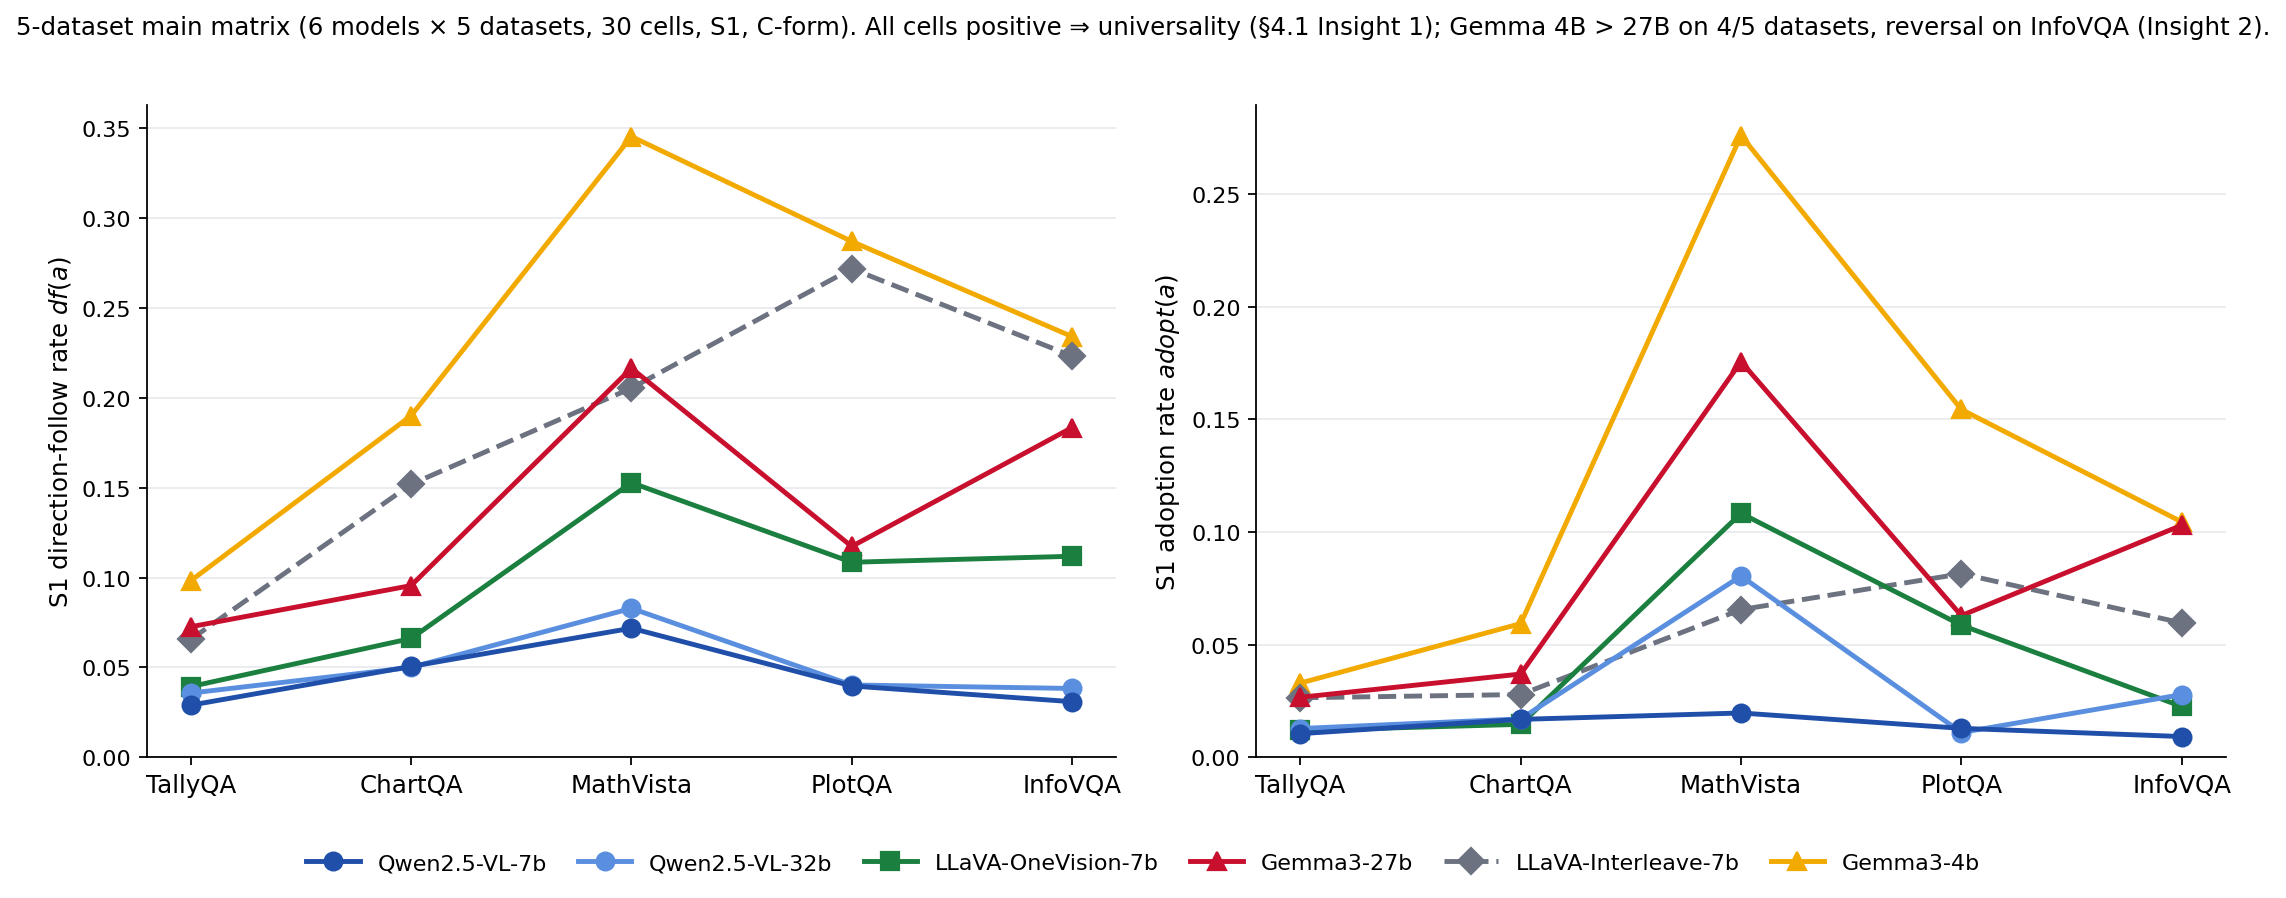
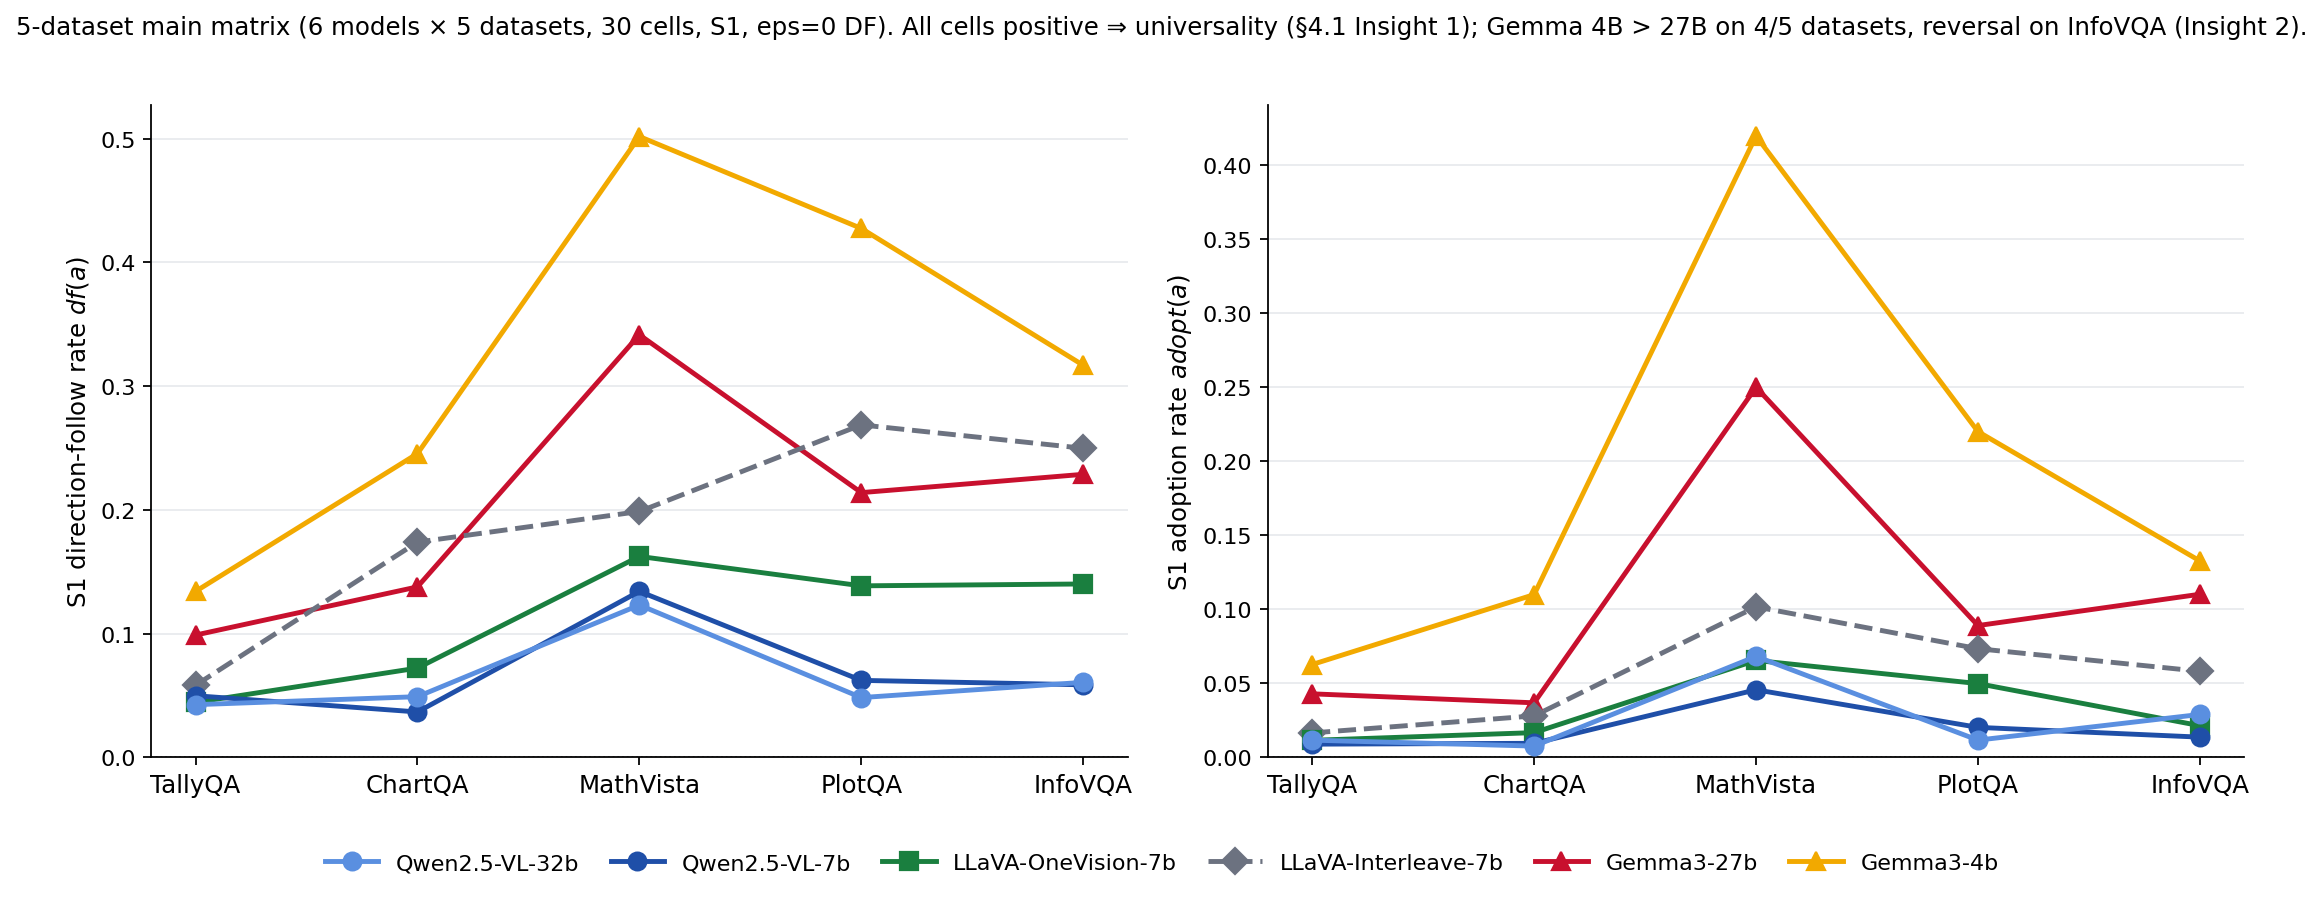
Stage 3b fixes: MAIN-relative paths in driver + recompute relative_to fallback
- _run_stage3b.sh: derive MAIN from git-common-dir; H1 paths point at MAIN's outputs/paper2 (gitignored convention)
- analyze_confidence_anchoring.py: pass --out-dir explicitly to MAIN's docs/insights/_data so the cp step picks up the fresh CSV
- recompute_answer_span_confidence.py: tolerate ValueError on relative_to when running over predictions outside the worktree

diff --git a/scripts/recompute_answer_span_confidence.py b/scripts/recompute_answer_span_confidence.py
@@ -341,12 +341,19 @@ def main():
     if args.dry_run:
         for p in paths:
             status = "skip (already processed)" if (not args.force and already_processed(p)) else "process"
-            print(f"  {status}: {p.relative_to(PROJECT_ROOT)}")
+            try:
+                rel = p.relative_to(PROJECT_ROOT)
+            except ValueError:
+                rel = p
+            print(f"  {status}: {rel}")
         return
 
     total_n = total_found = total_missing = total_skipped = 0
     for p in paths:
-        rel = p.relative_to(PROJECT_ROOT)
+        try:
+            rel = p.relative_to(PROJECT_ROOT)
+        except ValueError:
+            rel = p  # absolute path display when run on outputs outside the worktree
         if not args.force and already_processed(p):
             print(f"[skip] {rel}  (already has span proxies)")
             total_skipped += 1